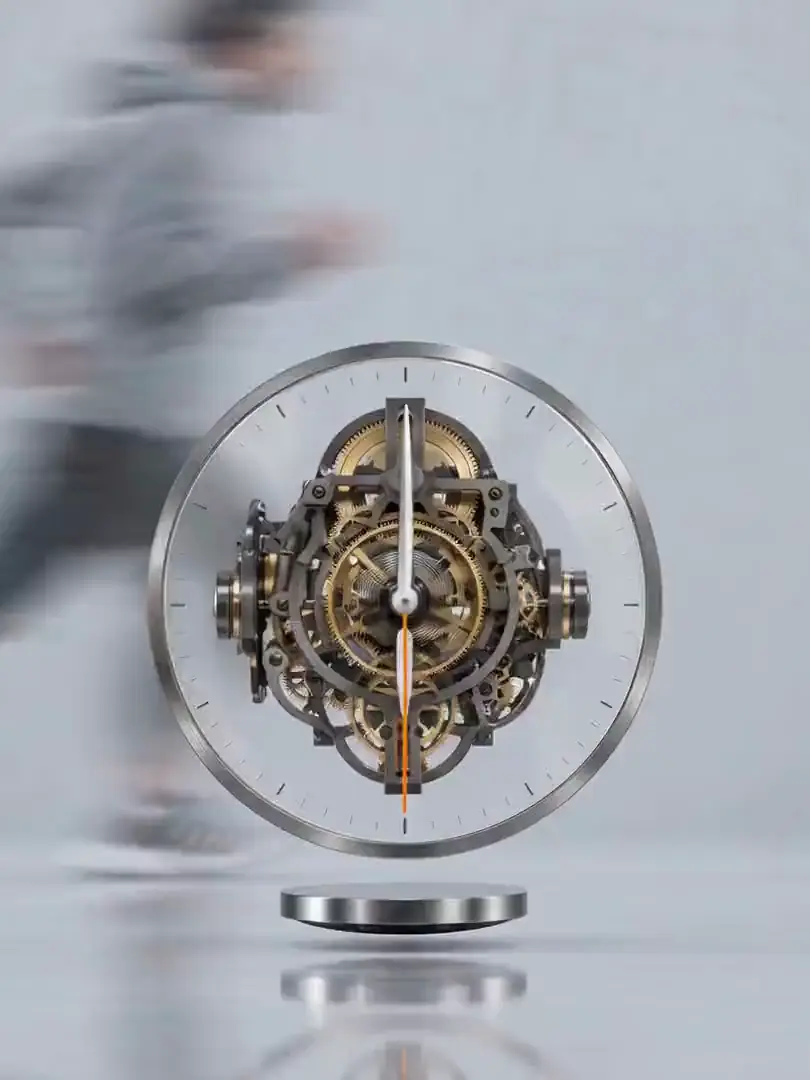
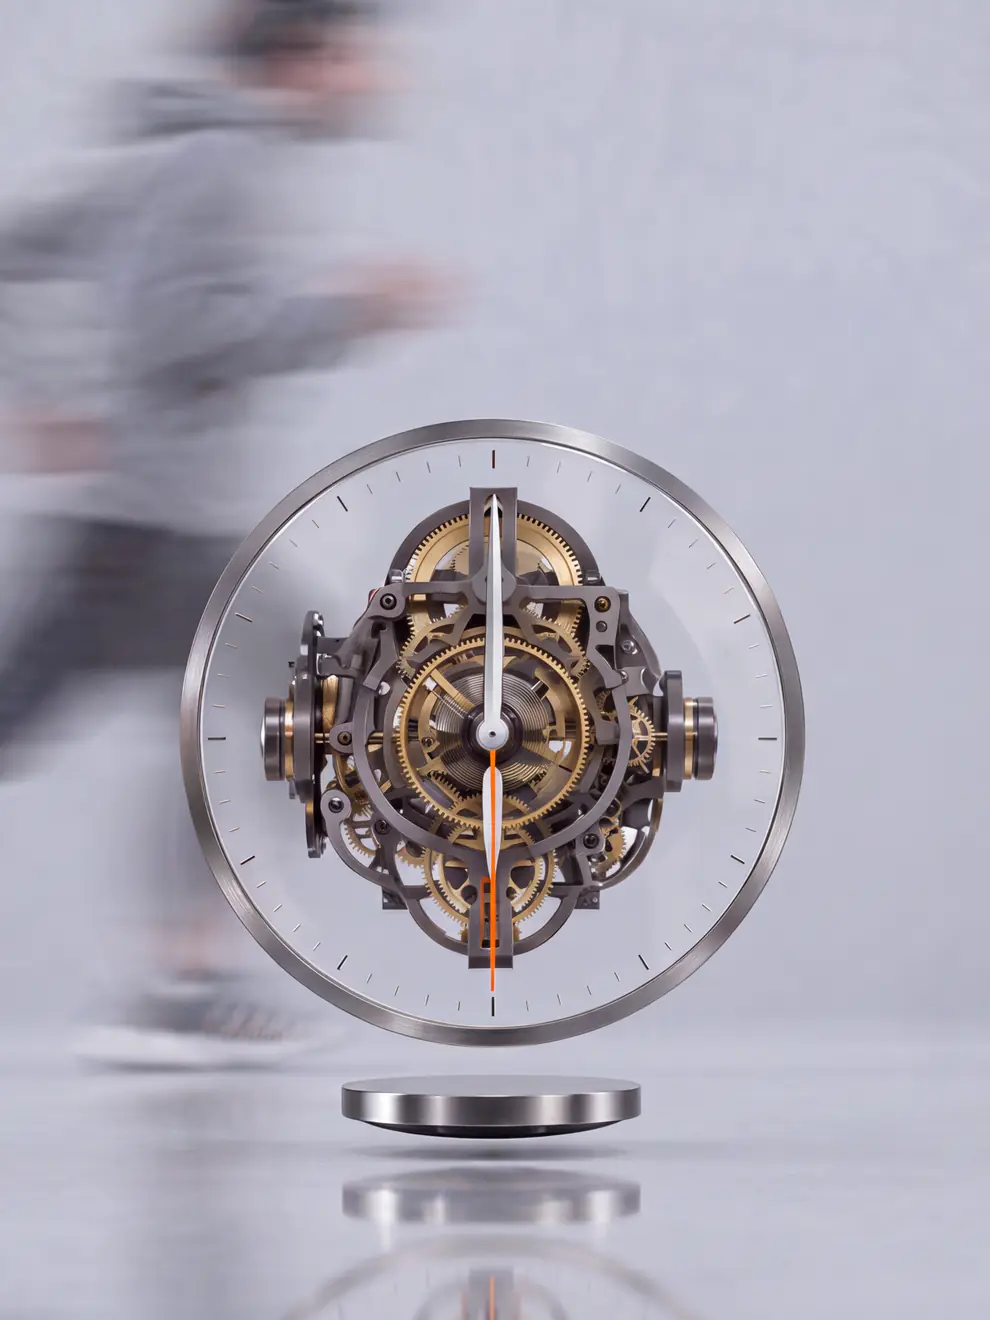
Homepage: first frame cut from a 4K still, sized per screen

diff --git a/frontend/src/components/landing/clock-hero.tsx b/frontend/src/components/landing/clock-hero.tsx
@@ -264,8 +264,10 @@ export function ClockHero({ headline }: { headline: Headline }) {
     >
       <div className="ch-stage">
         <picture>
-          <source media={PHONE} srcSet="/clock/poster-portrait.webp" />
-          <img src="/clock/poster.webp" alt="" className="ch-media" aria-hidden fetchPriority="high" />
+          {/* Cut from a 4K still, sharper than the video's own first frame; each screen gets one size. */}
+          <source media={PHONE} sizes="100vw" srcSet="/clock/poster-portrait.webp 990w, /clock/poster-portrait-1320.webp 1320w" />
+          <img src="/clock/poster.webp" srcSet="/clock/poster.webp 1920w, /clock/poster-2880.webp 2880w" sizes="100vw"
+            alt="" className="ch-media" aria-hidden fetchPriority="high" />
         </picture>
         <video ref={videoRef} className="ch-media ch-video" muted playsInline preload="none" aria-hidden />
         <div aria-hidden className="ch-scrim" />
